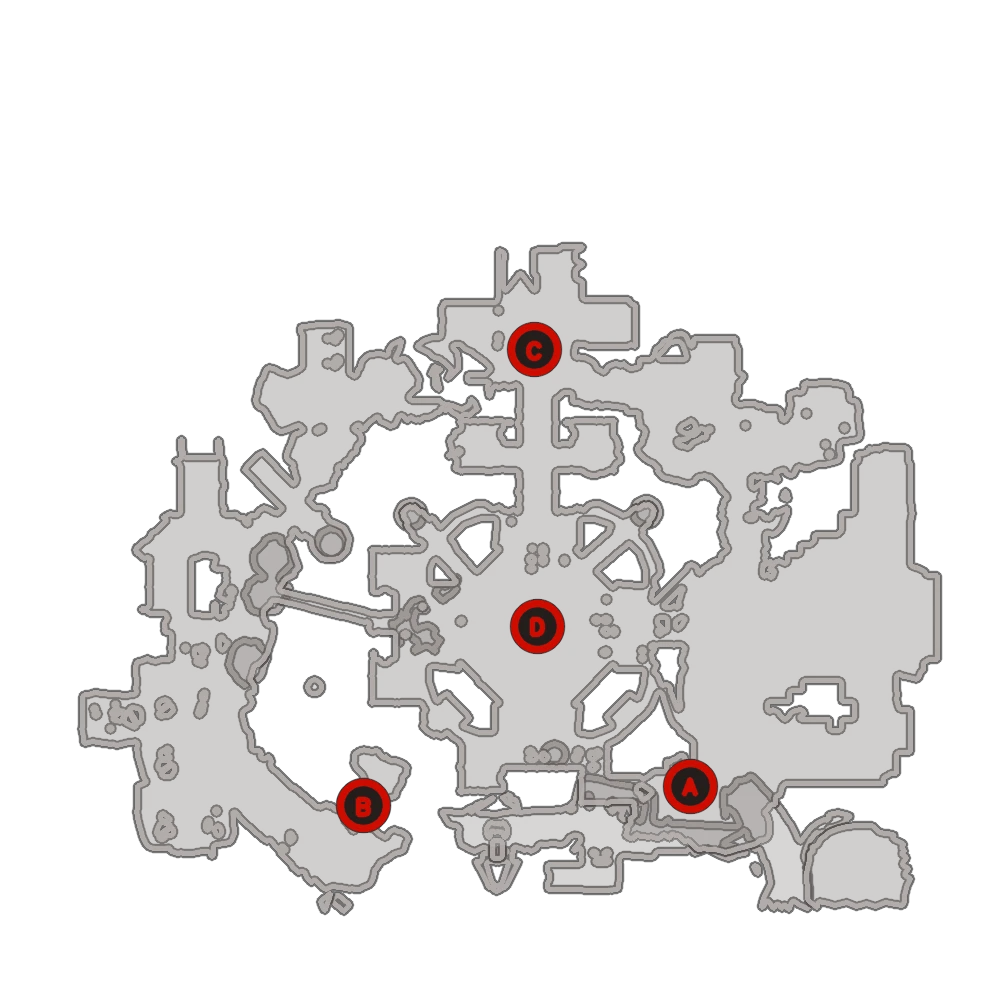
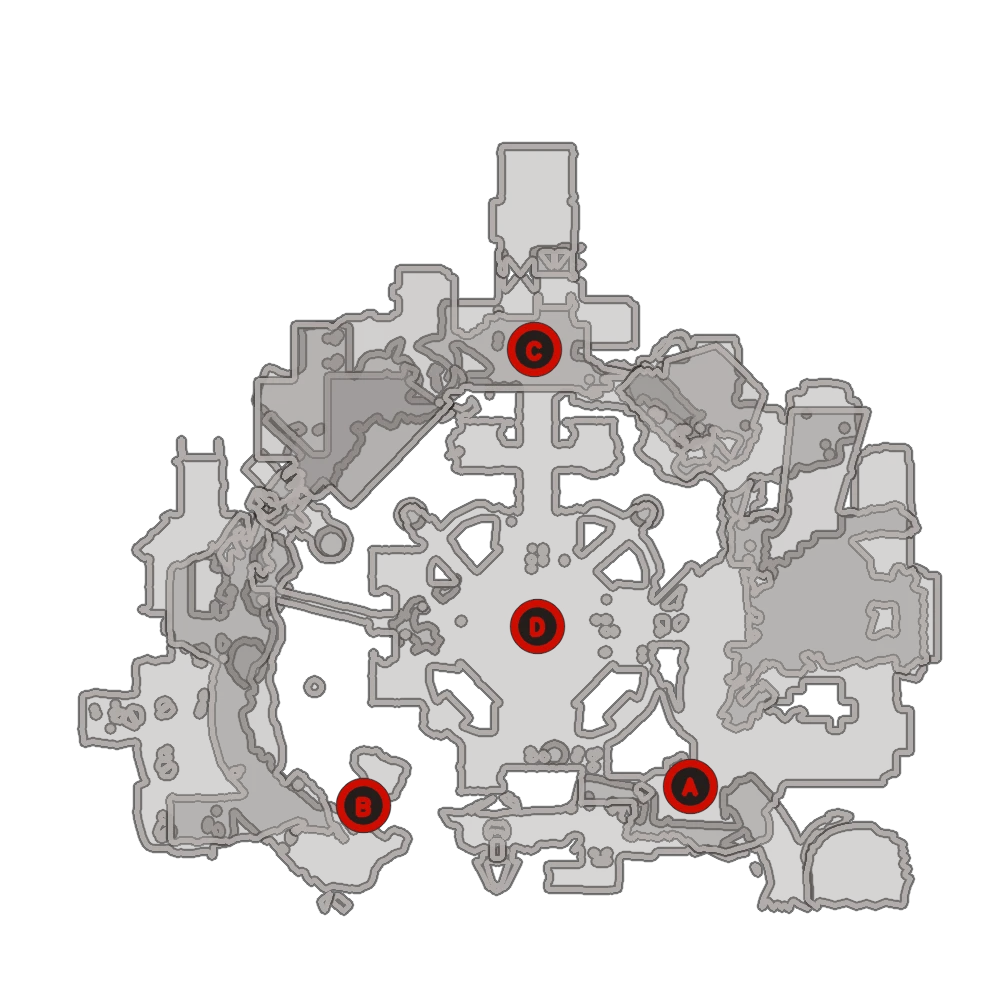
Restore Kadesh upper minimap floors

Changed region(s): [[0.155, 0.124, 0.93, 0.868]]

diff --git a/analyzer/index.html b/analyzer/index.html
@@ -158,7 +158,7 @@
   </div>
 
   <script src="./html2canvas.min.js"></script>
-  <script src="./minimaps/catalog-20260823-5.js"></script>
+  <script src="./minimaps/catalog-20260823-6.js"></script>
   <script src="./parser.js?v=20260822-71"></script>
   <script src="./tier-data.js?v=20260816-2"></script>
   <script src="./spawn-alignment.js?v=20260820-1"></script>

diff --git a/analyzer/tools/build_game_minimaps.py b/analyzer/tools/build_game_minimaps.py
@@ -18,7 +18,7 @@ import cv2
 import numpy as np
 
 
-IMMUTABLE_CATALOG_FILENAME = "catalog-20260823-5.js"
+IMMUTABLE_CATALOG_FILENAME = "catalog-20260823-6.js"
 
 
 GROUP_NODES = {
@@ -252,6 +252,33 @@ GAS_CITY_RENDER_BANDS = 3
 GAS_CITY_MAIN_ROOM_HEIGHTS = (-17.947, -6.0, 4.0)
 GAS_SPAWN_02_SIDE_ROOM_HEIGHTS = (-17.947, -3.947, 12.5)
 KADESH_DEFENSE_GROUP = "alator+kadesh+spear"
+# Kadesh's generic spawn-height clustering collapses the lower arena into two
+# broad slices. Several real raised rooms, caves, and their connecting stairs
+# live above those slices, so retain only the mesh components touched by these
+# reviewed world-space anchors at their exact floor heights. This keeps the
+# useful upper floors without bringing every roof and overhead prop back into
+# the flattened minimap.
+KADESH_COMPONENT_BAND_ANCHORS = {
+    KADESH_DEFENSE_GROUP: {
+        7.2: (
+            (58.0, 7.2, 7.0),
+            (42.0, 7.2, 7.0),
+            (34.0, 7.2, 7.0),
+        ),
+        8.3: ((6.5, 8.3, 58.0),),
+        10.8: (
+            (-54.0, 10.8, -52.0),
+            (-51.0, 10.8, -41.0),
+        ),
+        13.2: ((34.5, 13.2, -10.9),),
+        16.4: ((21.0, 16.4, 39.0),),
+    },
+}
+KADESH_COMPONENT_ONLY_HEIGHTS = {
+    group_id: tuple(anchors_by_height)
+    for group_id, anchors_by_height in KADESH_COMPONENT_BAND_ANCHORS.items()
+}
+KADESH_COMPONENT_ONLY_TOLERANCE = 0.9
 CORPUS_OUTPOST_DEFENSE_GROUP = "sechura+tessera+outer_terminus+cerberus"
 CORPUS_OUTPOST_HEIGHT_BAND_INDICES = {
     CORPUS_OUTPOST_DEFENSE_GROUP: (0, 1),
@@ -709,6 +736,13 @@ def render_map(
         heights = sorted([*heights, LARZAC_Y_BUILDING_HEIGHT])
     elif group_id == INFESTED_SHIP_DEFENSE_GROUP:
         heights = sorted([*heights, INFESTED_SHIP_CONNECTOR_HEIGHT])
+    elif group_id == KADESH_DEFENSE_GROUP:
+        heights = sorted(
+            [
+                *heights,
+                *KADESH_COMPONENT_ONLY_HEIGHTS.get(group_id, ()),
+            ]
+        )
     elif group_id in CORPUS_OUTPOST_HEIGHT_BAND_INDICES:
         heights = [
             heights[index]
@@ -737,11 +771,14 @@ def render_map(
 
     for band_index, height in enumerate(heights):
         conceal_underlay = None
+        component_only_heights = (
+            KADESH_COMPONENT_ONLY_HEIGHTS.get(group_id, ())
+            if group_id == KADESH_DEFENSE_GROUP
+            else CORPUS_OUTPOST_COMPONENT_ONLY_HEIGHTS.get(group_id, ())
+        )
         component_only_band = any(
             abs(height - target_height) < 0.01
-            for target_height in CORPUS_OUTPOST_COMPONENT_ONLY_HEIGHTS.get(
-                group_id, ()
-            )
+            for target_height in component_only_heights
         )
         additional_height_band = any(
             abs(height - target_height) < 0.01
@@ -769,7 +806,11 @@ def render_map(
                 INFESTED_SHIP_CONNECTOR_TOLERANCE
                 if infested_ship_connector_band
                 else (
-                    CORPUS_OUTPOST_COMPONENT_ONLY_TOLERANCE
+                    (
+                        KADESH_COMPONENT_ONLY_TOLERANCE
+                        if group_id == KADESH_DEFENSE_GROUP
+                        else CORPUS_OUTPOST_COMPONENT_ONLY_TOLERANCE
+                    )
                     if component_only_band
                     else (
                         CORPUS_OUTPOST_ADDITIONAL_HEIGHT_TOLERANCE
@@ -931,8 +972,10 @@ def render_map(
             count, labels, _, _ = cv2.connectedComponentsWithStats(
                 (mask > 0).astype(np.uint8), 8
             )
-            anchors_by_height = CORPUS_OUTPOST_COMPONENT_BAND_ANCHORS.get(
-                group_id, {}
+            anchors_by_height = (
+                KADESH_COMPONENT_BAND_ANCHORS.get(group_id, {})
+                if group_id == KADESH_DEFENSE_GROUP
+                else CORPUS_OUTPOST_COMPONENT_BAND_ANCHORS.get(group_id, {})
             )
             band_anchors = next(
                 (
@@ -1190,7 +1233,7 @@ def render_map(
         "stofler": "bottom-floor-20260816",
         GAS_SPAWN_04_GROUP: "runtime-edge-rooms-20260822",
         GAS_SPAWN_02_GROUP: "shared-main-mesh-stairs-20260821",
-        KADESH_DEFENSE_GROUP: "clockwise-20260821",
+        KADESH_DEFENSE_GROUP: "upper-floors-20260823",
         CORPUS_OUTPOST_DEFENSE_GROUP: "north-spawn-room-20260822",
         f"{CORPUS_OUTPOST_DEFENSE_GROUP}~2": "clean-floor-20260821",
         f"{CORPUS_OUTPOST_DEFENSE_GROUP}~3": "right-spawn-floor-20260821",

diff --git a/analyzer/ARCHITECTURE.md b/analyzer/ARCHITECTURE.md
@@ -231,7 +231,7 @@ established the same procedural transform with 219-282 authored matches. All
 seven rows now match their complete 283-350 point sets against the resulting
 406-reference catalog. Live D1 never feeds the browser
 catalog directly. The page loads the byte-identical immutable
-`minimaps/catalog-20260823-5.js` asset while `catalog.js` remains the maintained
+`minimaps/catalog-20260823-6.js` asset while `catalog.js` remains the maintained
 generated source. At least 24 reference matches and 90% observed-point coverage
 are still required before the recovered transform maps any future points beyond
 that reviewed set. This prevents valid runtime extras from hiding the whole
@@ -273,6 +273,14 @@ room. Its Analyzer image composites the mesh component at +6.25 m, retaining
 only the reviewed component outside the existing floor silhouette. This
 restores the bent hallway without adding the upper arena's railings and props.
 The affine transform and submitted-log spawn coordinates are unchanged.
+
+The shared Alator / Kadesh / Spear minimap retains five additional raised-floor
+components at 7.2 m, 8.3 m, 10.8 m, 13.2 m, and 16.4 m. World-space anchors
+select the real north room and stairs, the platform upper-left of C, the raised
+cave left of B, and the two upper caves right of C while excluding unrelated
+roof and prop components. The clockwise affine transform and authored spawn
+catalog are unchanged; the 3D spawn markers used during local validation are
+not baked into the published WebP.
 
 ## Production report layout
 
